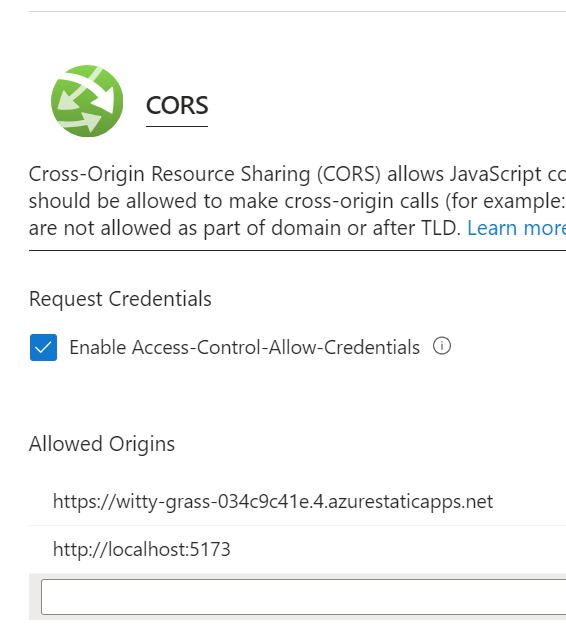
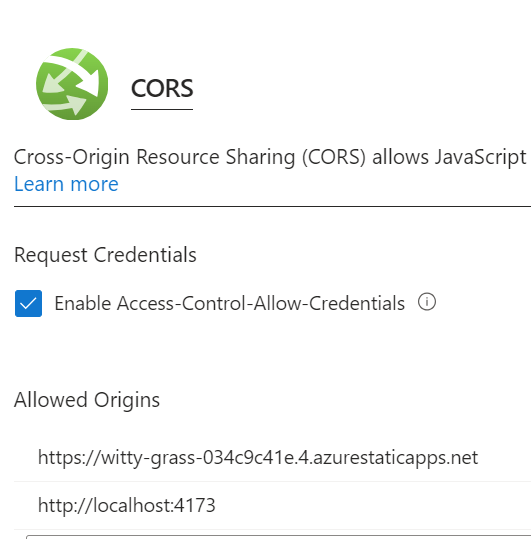
Configure web app frontend localhost calling API backend localhost

diff --git a/web/src/RunSimulationComponent.tsx b/web/src/RunSimulationComponent.tsx
@@ -2,6 +2,16 @@ import { Accessor, Setter, batch } from 'solid-js';
 import { Store, SetStoreFunction, reconcile } from 'solid-js/store'
 import { Agent } from './types';
 
+// Read about this here:
+// https://vitejs.dev/guide/env-and-mode.html
+// https://vitejs.dev/guide/env-and-mode.html#modes
+// https://vitejs.dev/guide/env-and-mode.html#node-env-and-modes
+// ChatGPT convo: Load Vite Config by Mode
+// https://chat.openai.com/share/9109f0a2-3f55-47ca-88c8-14d13c6acee5
+const envViteMode: "development" | "production" = import.meta.env.MODE as "development" | "production";
+
+const apiHost = envViteMode === "development" ? "https://localhost:7128" : "https://game-api1.azurewebsites.net"
+
 function RunSimulationComponent(props: {
   input: Accessor<number>
   message: Accessor<string>
@@ -15,9 +25,9 @@ function RunSimulationComponent(props: {
   const handleClick = () => {
     const queryString = `?turnLimit=${props.input()}`
 
-    const apiUrl = "https://game-api1.azurewebsites.net/simulateGameSession" + queryString
+    const apiUrl = apiHost + "/simulateGameSession" + queryString
 
-    console.log(`Calling ${apiUrl}`)
+    console.log(`Calling ${apiUrl}.`)
 
     fetch(apiUrl)
       .then((response) => response.json())

diff --git a/src/api/Program.cs b/src/api/Program.cs
@@ -28,7 +28,15 @@ builder.Services.AddSwaggerGen(
         opts.SchemaFilter<GameStateSchemaFilter>();
     });
 
+// https://learn.microsoft.com/en-us/aspnet/core/fundamentals/environments?view=aspnetcore-8.0
+string? localhostCorsPolicyName = null;
+if (builder.Environment.IsDevelopment())
+    localhostCorsPolicyName = UseCorsForLocalhost(builder);
+
 var app = builder.Build();
+
+if (app.Environment.IsDevelopment())
+    app.UseCors(localhostCorsPolicyName!);
 
 app.UseSwagger();
 app.UseSwaggerUI();
@@ -93,3 +101,27 @@ app.MapGet(
     });
 
 app.Run();
+return;
+
+// https://learn.microsoft.com/en-us/aspnet/core/security/cors?view=aspnetcore-8.0
+string UseCorsForLocalhost(WebApplicationBuilder builder)
+{
+    string corsPolicyName = "localhostCorsPolicy";
+    // Note that 5173 spells "VITE" [1] and is this default value:
+    // https://vitejs.dev/config/server-options.html#server-port
+    // [1] https://www.reddit.com/r/programming/comments/xh1vyr/fun_fact_vites_default_port_is_5173_which_spells/
+    string viteDefaultServerPort = "5173";
+    string webNpmRunDevServerUrl = $"http://localhost:{viteDefaultServerPort}";
+    builder.Services.AddCors(
+        options =>
+        {
+            options.AddPolicy(
+                name: corsPolicyName,
+                policy =>
+                {
+                    policy.WithOrigins(webNpmRunDevServerUrl)
+                        .WithMethods("PUT", "DELETE", "GET");
+                });
+        });
+    return corsPolicyName;
+}

diff --git a/docs/deployment.md b/docs/deployment.md
@@ -63,7 +63,7 @@ You can read more about the manual trigger on the [`workflow_dispatch`] doc.
 
 ``` powershell
 cd ./src
-dotnet run --project api
+dotnet run --project api --launch-profile https
 ```
 
 # Deploy the web app frontend
@@ -160,7 +160,7 @@ The Azure portal configuration takes precedence over code. From [SO: CORS in Azu
 > [this FAQ](https://learn.microsoft.com/en-us/azure/app-service/app-service-web-tutorial-rest-api#how-do-i-set-allowed-origins-to-a-wildcard-subdomain).
 
 > [!TIP]
-> Configuring CORS via Azure portal is especially useful for quick one-off tests, e.g. with localhost.
+> Configuring CORS via Azure portal is especially useful for quick one-off tests, e.g. by calling the API from localhost vite preview.
 
 # Appendix
 
